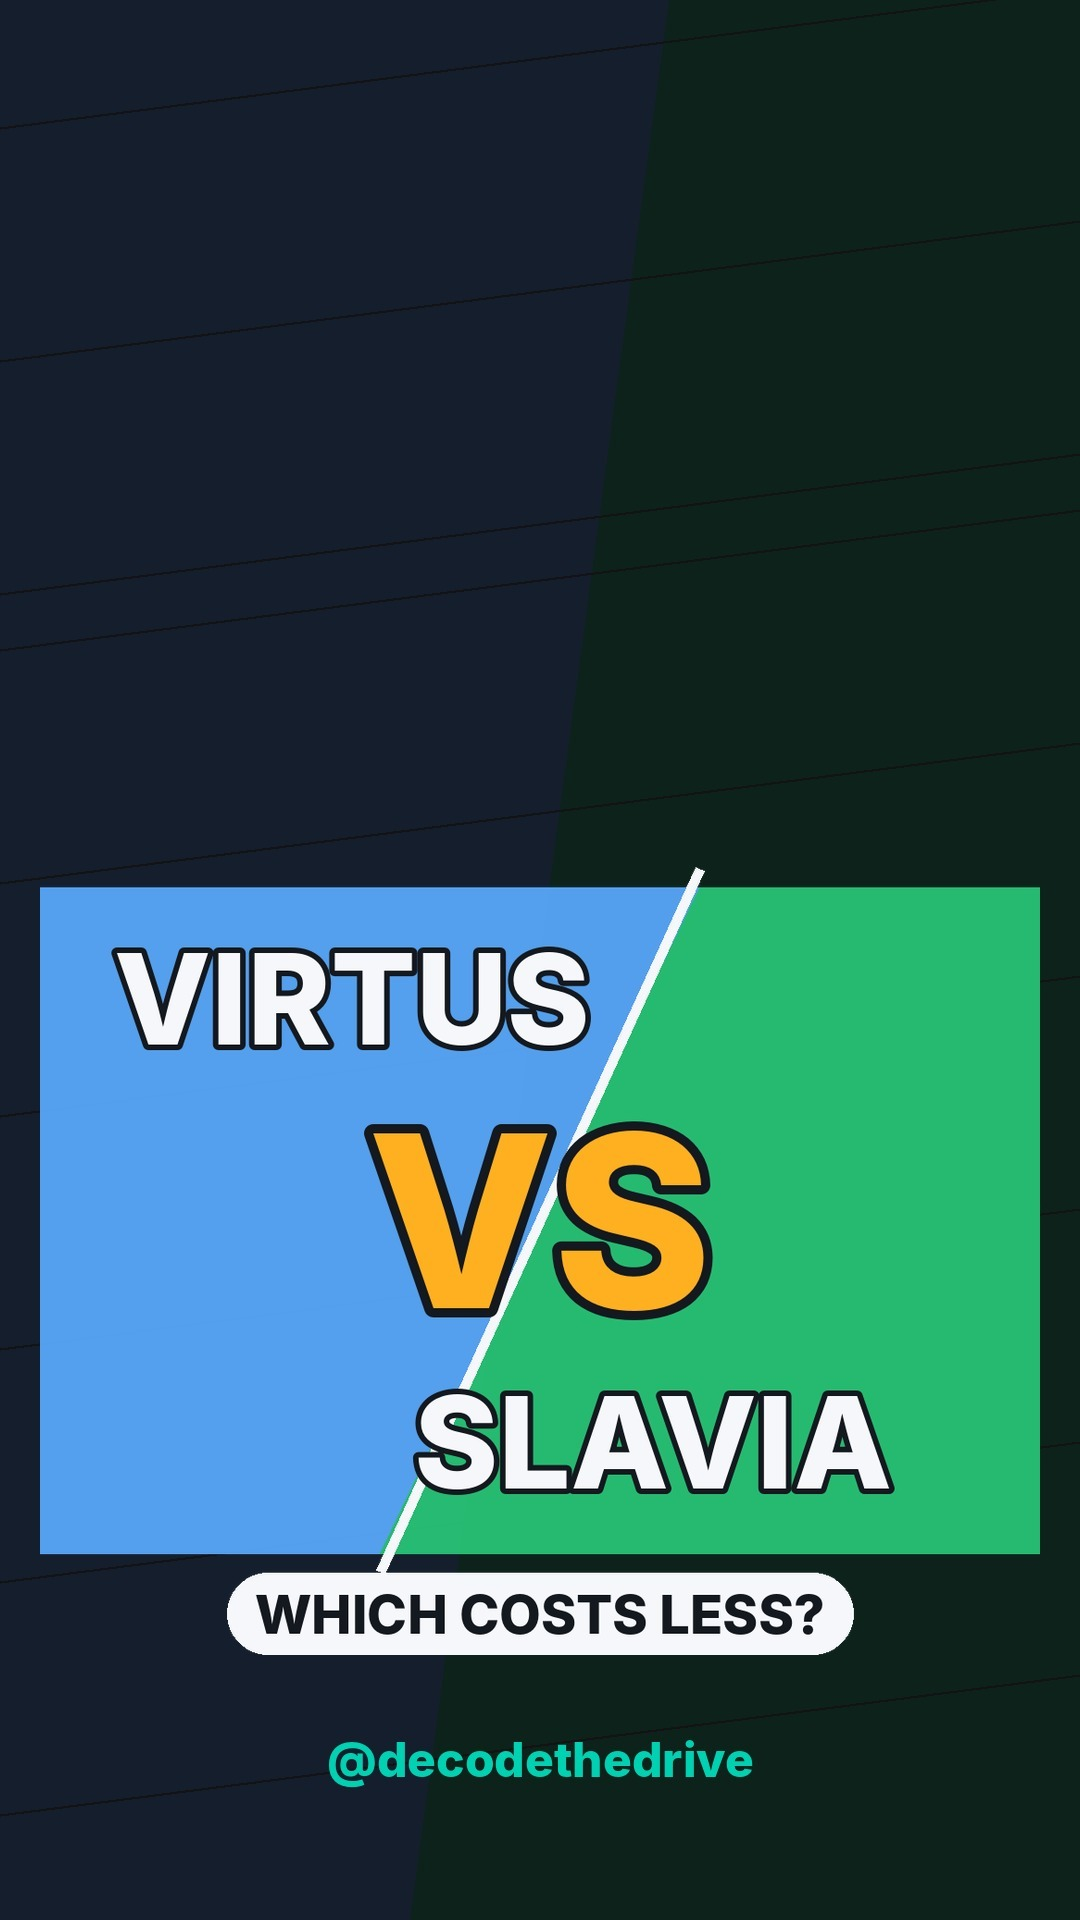
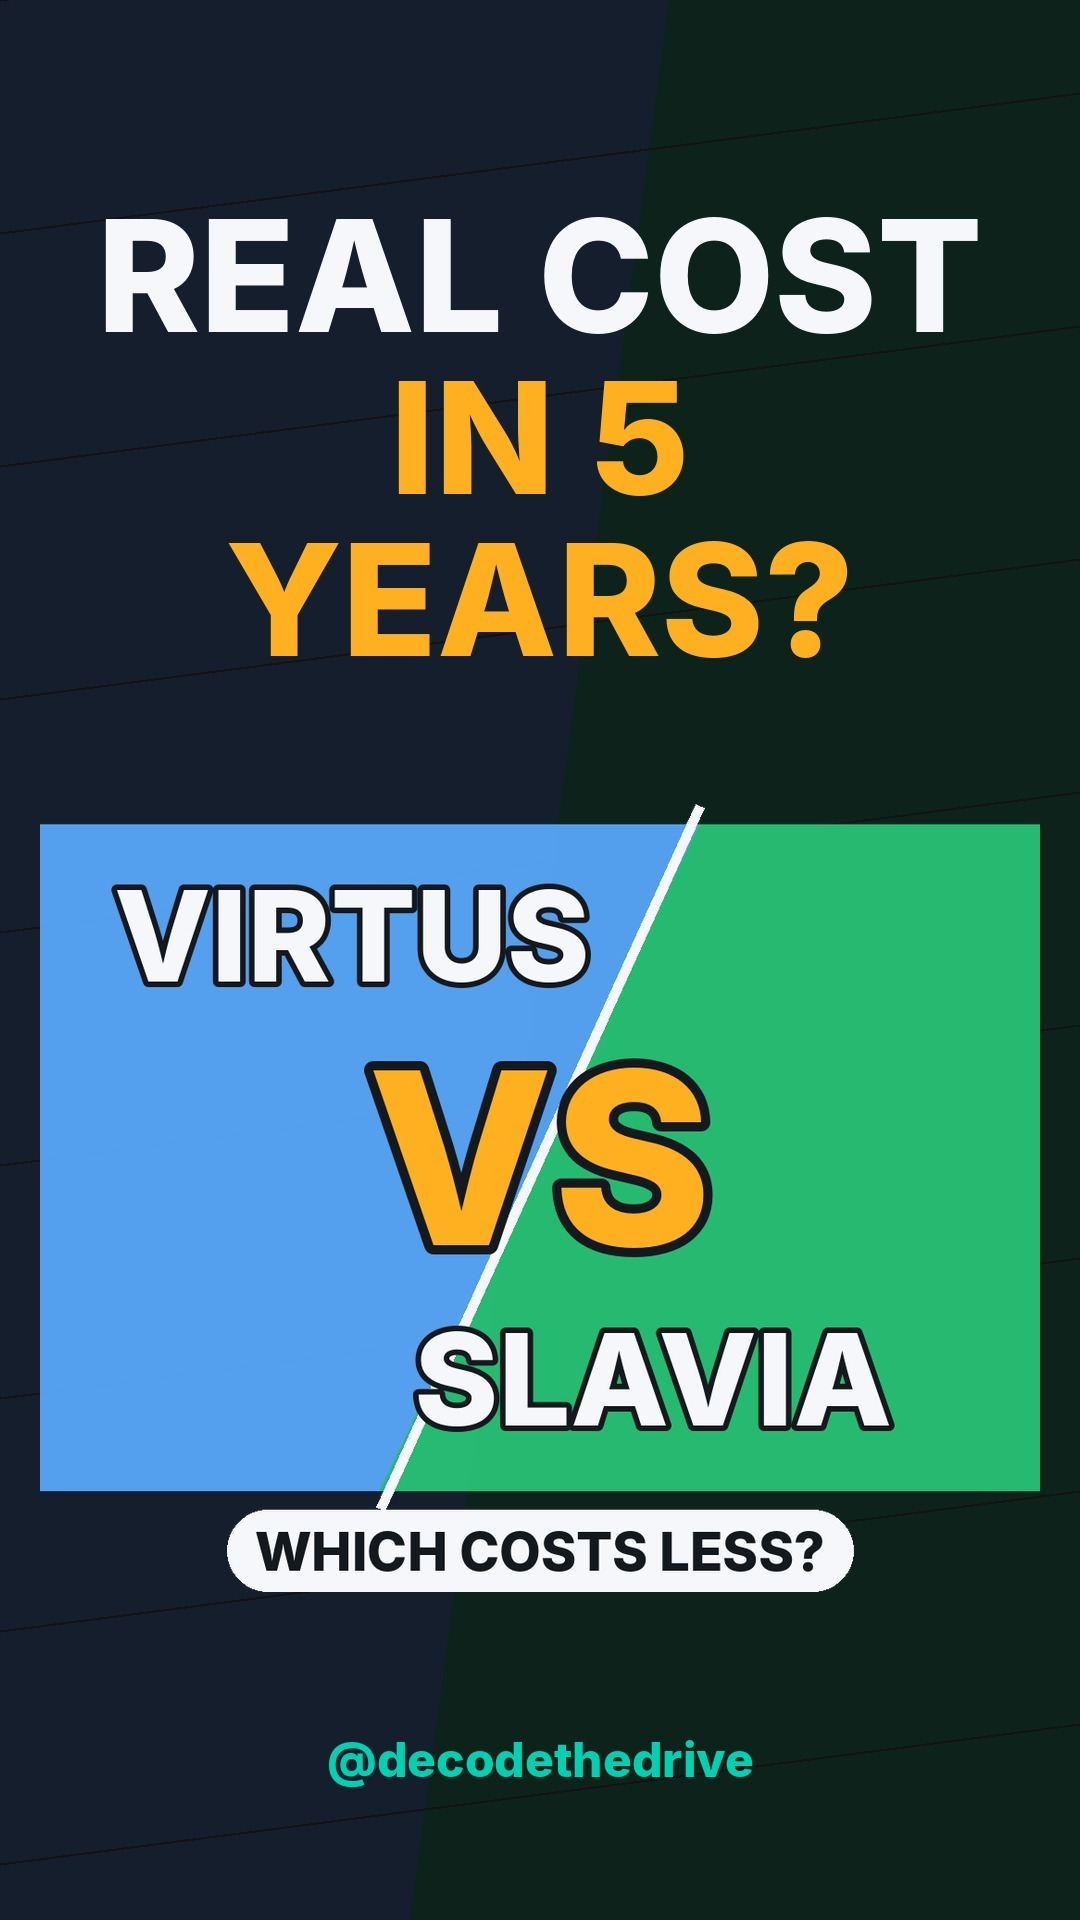
Car battle thumbnail: themed background, title kept
Claude-Session: https://claude.ai/code/session_019nGMK1H6NFztfiBrf6fioQ

Changed region(s): [[0.0306, 0.4062, 0.9778, 0.875], [0.0917, 0.0938, 0.9167, 0.3438]]

diff --git a/agent/motion_visuals.py b/agent/motion_visuals.py
@@ -502,11 +502,16 @@ def visual_thumbnail(post, path, handle="@decodethedrive"):
     step = post.get("thumbnail_step", step)
     if post.get("layout") == "duel":  # the two cars and the scoreboard, mid-fight
         from .motion_duel import duel
-        visual, step = (lambda frame, d, t, i: duel(post, frame, d, t, i)), post.get("thumbnail_step", 0)
+        # drawn on a spare frame so the duel's own background doesn't cover the title
+        visual, step = (lambda frame, d, t, i: duel(post, Image.new("RGBA", (W, H)), d, t, i)), \
+            post.get("thumbnail_step", 0)
     text = post.get("thumbnail_text") or post["slides"][0]["heading"]
     top, _, accent = text.partition("|")
     im = Image.new("RGBA", (W, H), (*NAVY, 255))
     im.alpha_composite(_glow(900, TEAL, 55), (-300, 900))
+    if post.get("layout") == "duel":
+        from .motion_duel import _theme
+        _theme(post, im, 0)
     d = ImageDraw.Draw(im)
     parts = [(clean(p).upper(), c) for p, c in ((top, WHITE), (accent, AMBER)) if clean(p)]
     for size in range(180, 70, -8):  # short titles get huge type
